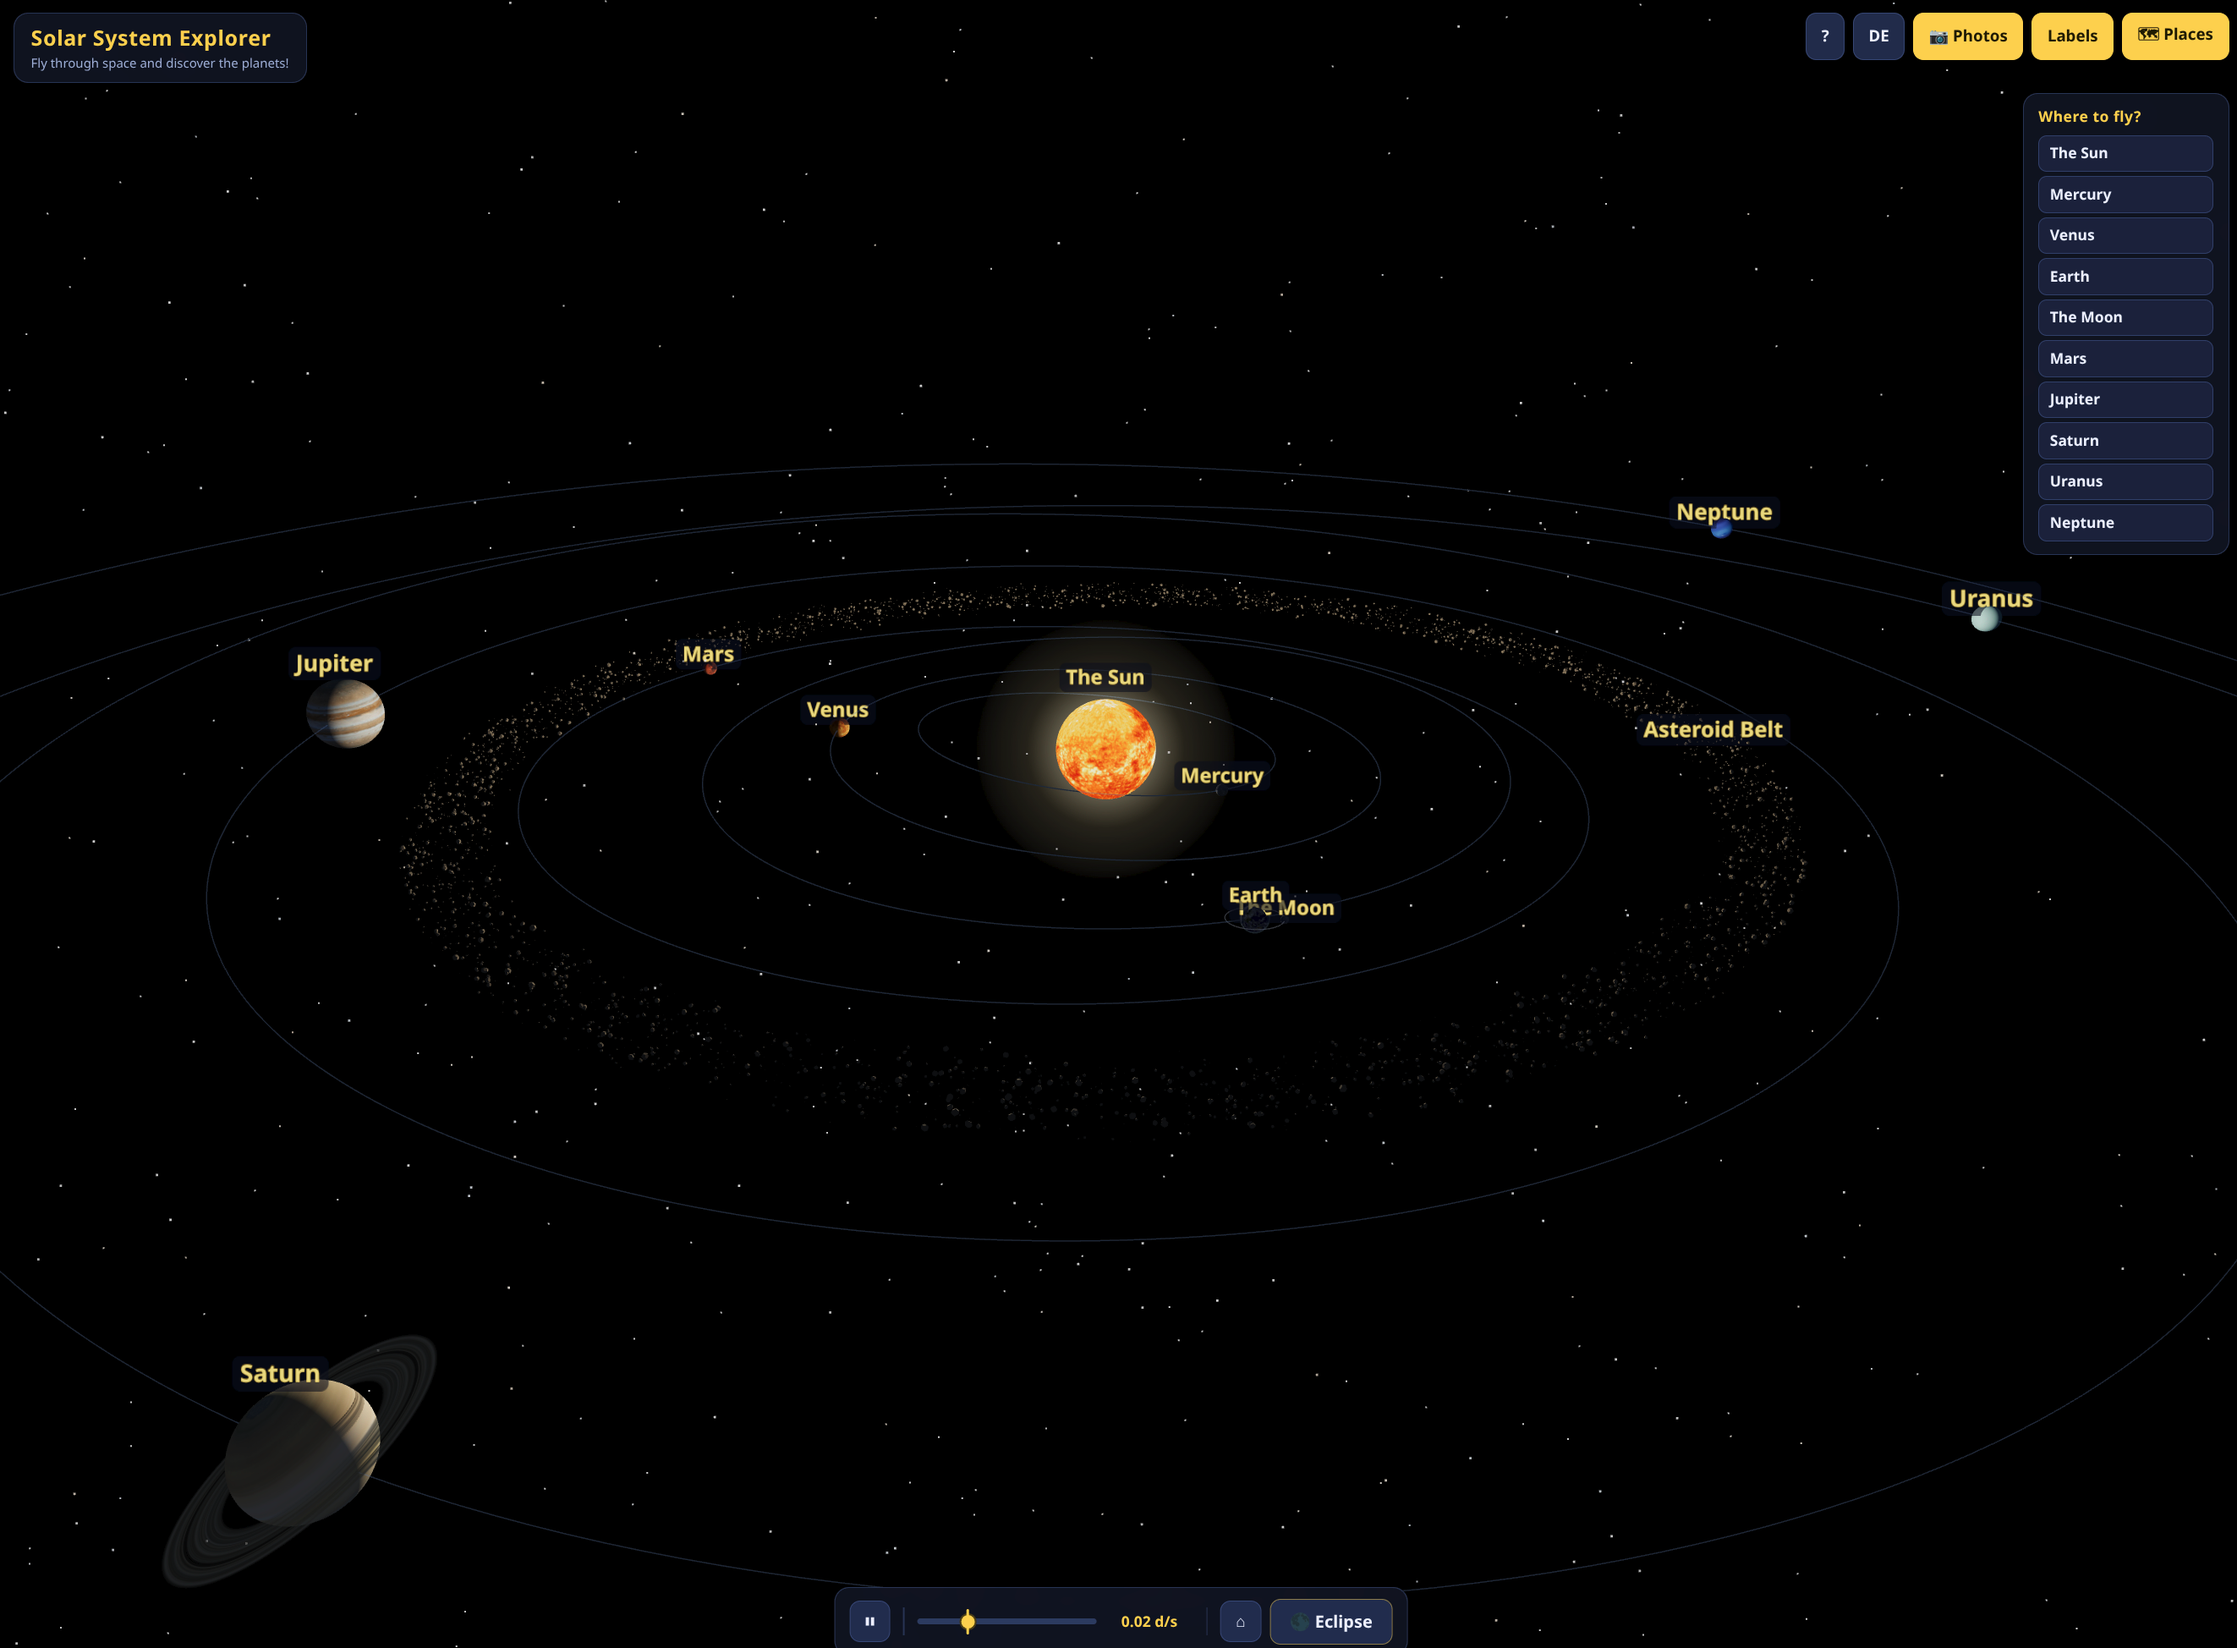
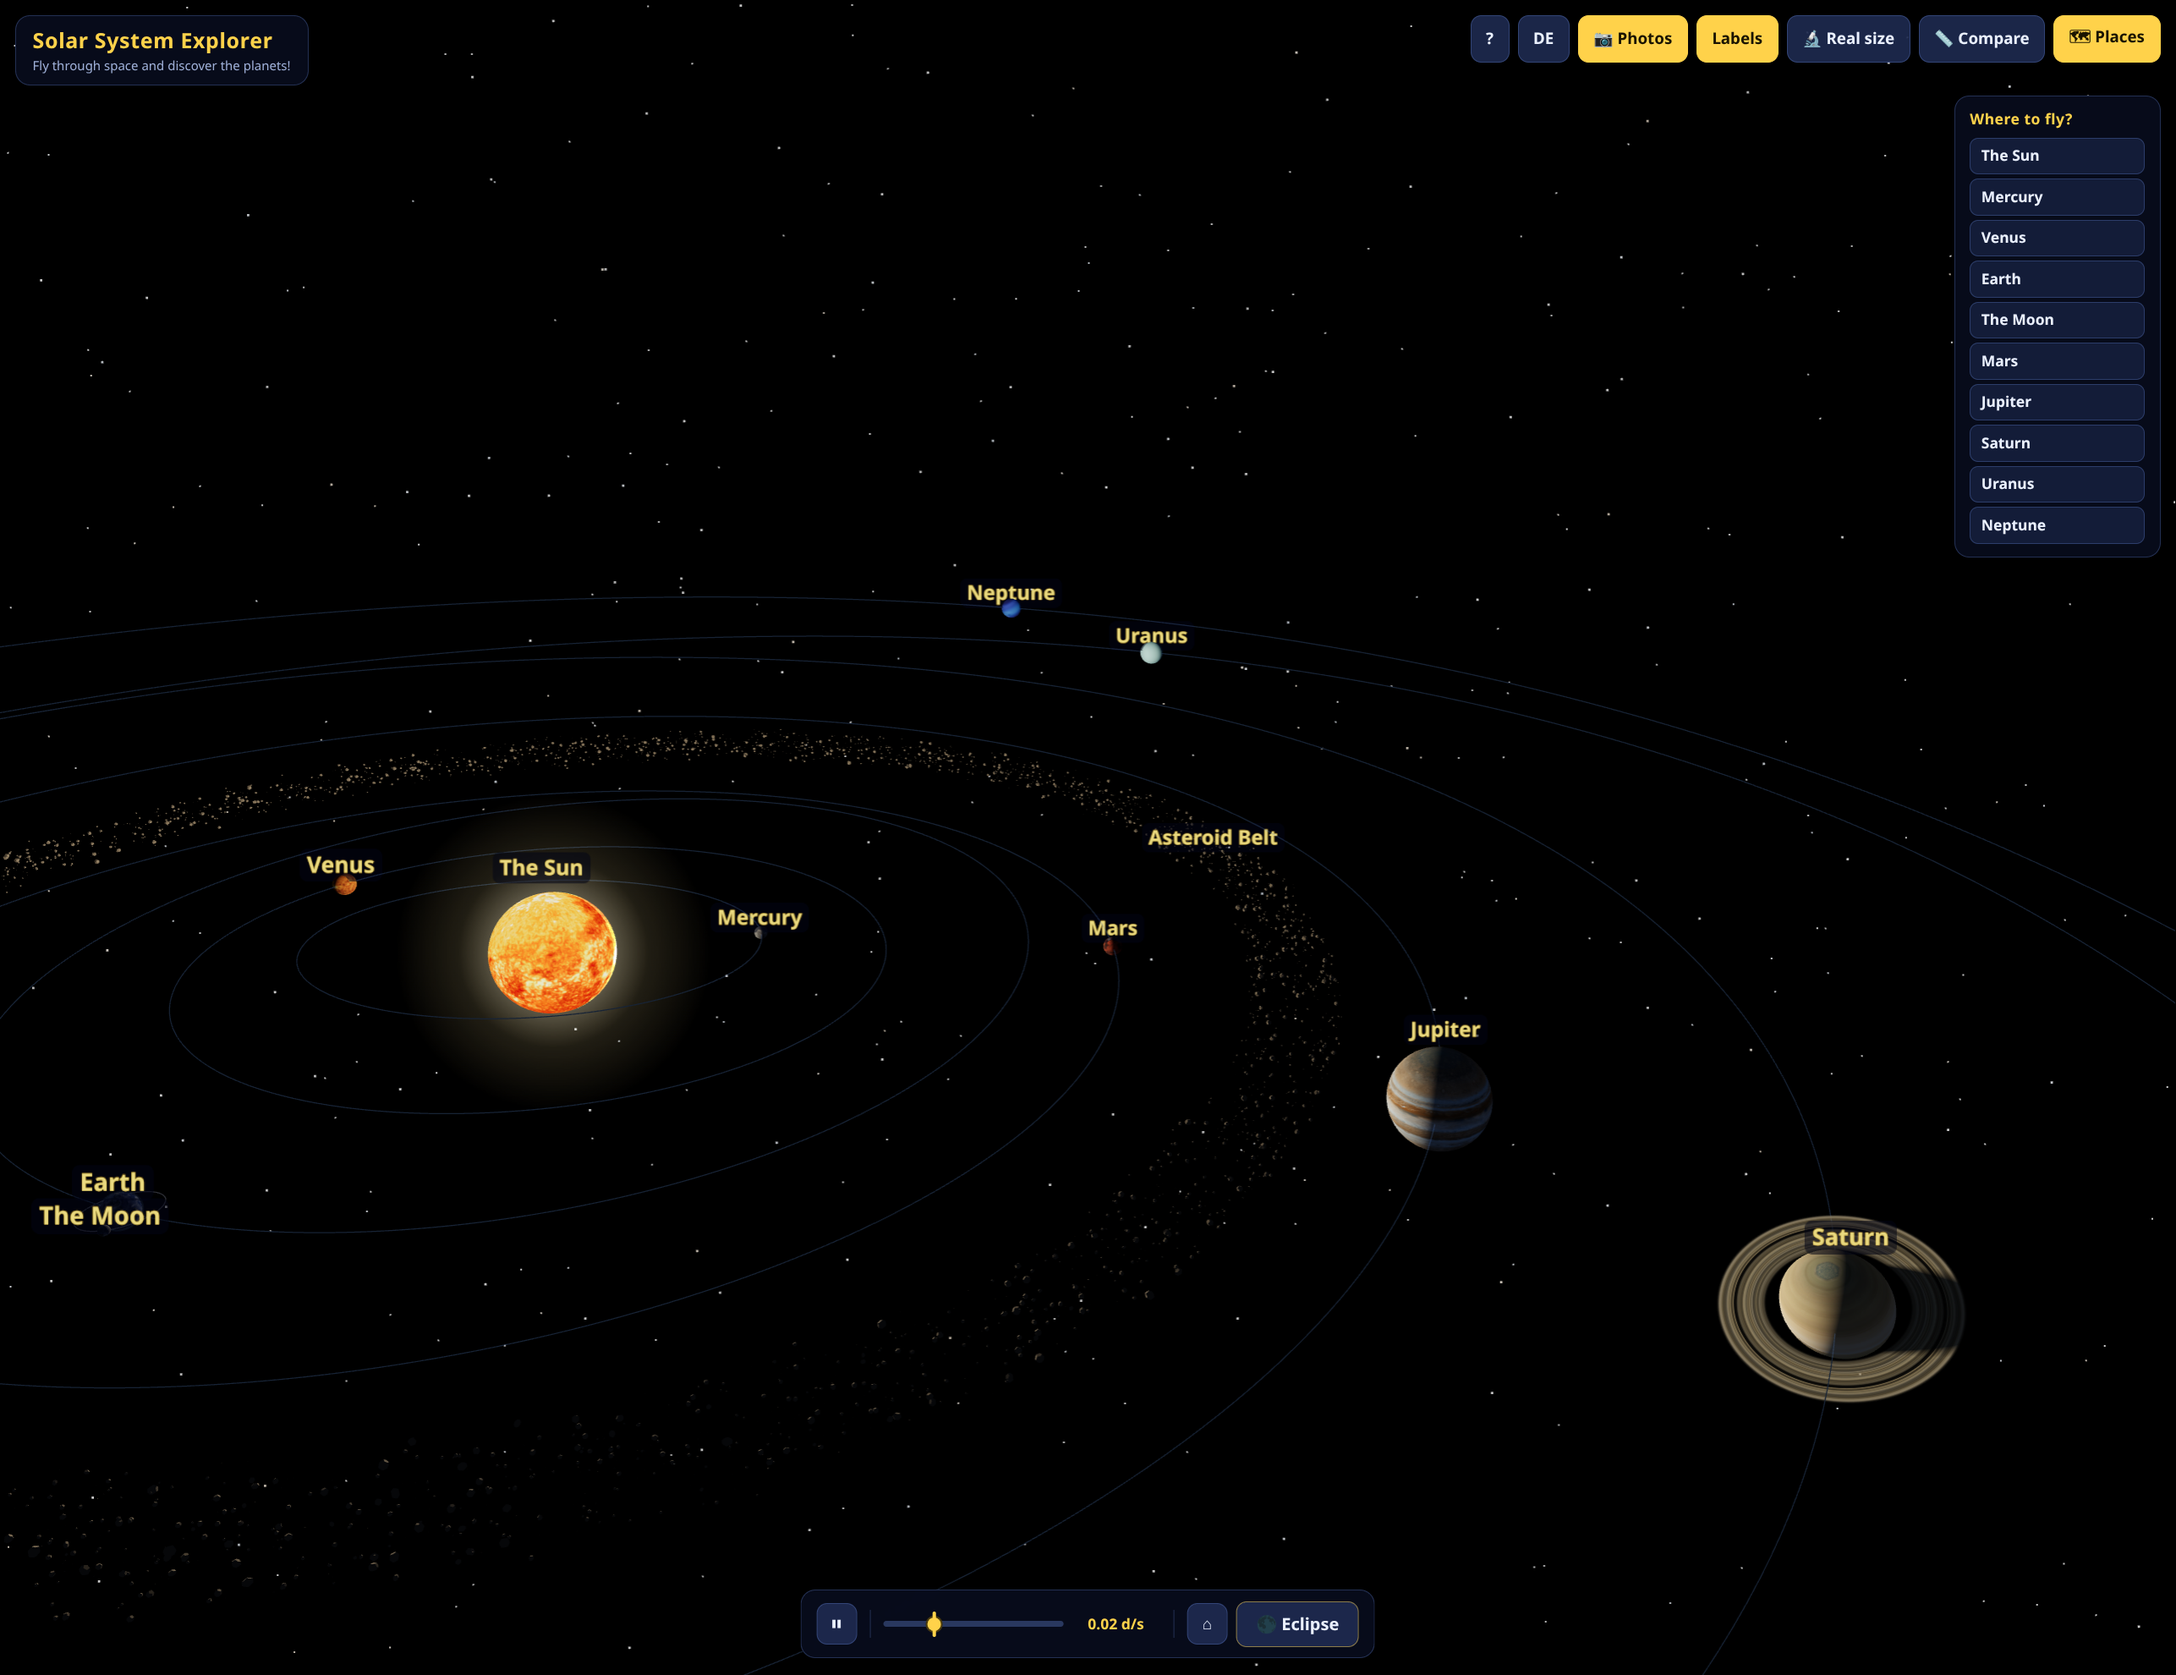
Readme update

diff --git a/README.md b/README.md
@@ -1,4 +1,4 @@
-# Solar System Explorer / Sonnensystem-Entdecker
+# Solar System Explorer
 
 A 3D, browser-based solar system for kids: fly through space with WASD + mouse,
 tap or click any planet to travel to it, and watch a real solar eclipse play out
@@ -10,7 +10,9 @@ By default everything (textures included) is generated **procedurally in the bro
 mode that swaps in real planet photographs (loaded from the internet); if a photo can't
 be loaded, that body simply keeps its procedural texture, so you never see broken images.
 
-![Solar System Explorer — all eight planets on their real elliptical orbits, the asteroid belt and Saturn's rings](demo.png)
+![Solar System Explorer in 📷 photo mode — all eight planets on their real elliptical orbits, the asteroid belt and Saturn's rings](demo.png)
+
+![Compare mode (📏) — all eight planets lined up side by side at their true relative sizes, with the Sun above as light source](compare.png)
 
 ## Run it
 
@@ -38,31 +40,31 @@ python3 -m http.server 8000
 # then open http://localhost:8000
 ```
 
-## Controls / Steuerung
+## Controls
 
-| Key / Action | EN | DE |
-|---|---|---|
-| Mouse drag | look around | Umschauen |
-| Touch & drag (one finger) | look around | Tippen & ziehen (ein Finger): umschauen |
-| Pinch (two fingers) | zoom in / out | Mit zwei Fingern kneifen: hinein-/herauszoomen |
-| Drag with two fingers | fly in the direction you drag (map-style pan) | Mit zwei Fingern ziehen: in die Zugrichtung fliegen |
-| Tap a planet / the Sun / the Moon | fly to it and follow it | Auf einen Planeten tippen: dorthin fliegen und ihm folgen |
-| `W` `A` `S` `D` | fly forward / left / back / right | Vorwärts / links / rückwärts / rechts fliegen |
-| `Space` | fly up | Nach oben fliegen |
-| `Ctrl` | fly down | Nach unten fliegen |
-| `Shift` (hold) | fly faster | Schneller fliegen |
-| Mouse wheel | zoom in / out | Hinein- / herauszoomen |
-| Click a planet / the Sun / the Moon | fly to it and follow it | Dorthin fliegen und ihm folgen |
-| `Esc` | stop following / close window | Folgen beenden / Fenster schließen |
-| Bottom bar | pause or set time speed (0.02/0.05/0.1/0.5/1/5/20/60 days per second) | Zeit anhalten oder Geschwindigkeit wählen (0,02/0,05/0,1/0,5/1/5/20/60 Tage pro Sekunde) |
-| 🌑 Eclipse button | start a solar eclipse over Earth | Startet eine Sonnenfinsternis über der Erde! |
-| `?` | help / controls | Hilfe / Steuerung |
-| EN / DE button | switch language (remembered) | Sprache wechseln (wird gemerkt) |
-| 📷 Photos button | switch between real photos and built-in drawings (remembered) | Zwischen echten Fotos und eingebauten Zeichnungen wechseln (wird gemerkt) |
-| 🔬 Real size button | show every planet at its true size relative to the Sun — they get tiny! (remembered) | Zeigt jeden Planeten in seiner wahren Größe relativ zur Sonne — sie werden winzig! (wird gemerkt) |
-| 📏 Compare button | line up all 8 planets side by side at their true relative sizes, with the Sun above as light source (remembered) | Stellt alle 8 Planeten nebeneinander in ihrer wahren relativen Größe auf, mit der Sonne als Lichtquelle darüber (wird gemerkt) |
-| 🗺 Places button | show/hide the list of all places you can fly to (remembered) | Liste aller Orte ein-/ausblenden, zu denen du fliegen kannst (wird gemerkt) |
-| Labels button | show/hide name labels | Namen ein-/ausblenden |
+| Key / Action | What it does |
+|---|---|
+| Mouse drag | look around |
+| Touch & drag (one finger) | look around |
+| Pinch (two fingers) | zoom in / out |
+| Drag with two fingers | fly in the direction you drag (map-style pan) |
+| Tap a planet / the Sun / the Moon | fly to it and follow it |
+| `W` `A` `S` `D` | fly forward / left / back / right |
+| `Space` | fly up |
+| `Ctrl` | fly down |
+| `Shift` (hold) | fly faster |
+| Mouse wheel | zoom in / out |
+| Click a planet / the Sun / the Moon | fly to it and follow it |
+| `Esc` | stop following / close window |
+| Bottom bar | pause or set time speed (0.02/0.05/0.1/0.5/1/5/20/60 days per second) |
+| 🌑 Eclipse button | start a solar eclipse over Earth |
+| `?` | help / controls |
+| EN / DE button | switch language (remembered) |
+| 📷 Photos button | switch between real photos and built-in drawings (remembered) |
+| 🔬 Real size button | show every planet at its true size relative to the Sun — they get tiny! (remembered) |
+| 📏 Compare button | line up all 8 planets side by side at their true relative sizes, with the Sun above as light source (remembered) |
+| 🗺 Places button | show/hide the list of all places you can fly to (remembered) |
+| Labels button | show/hide name labels |
 
 ## Features
 
